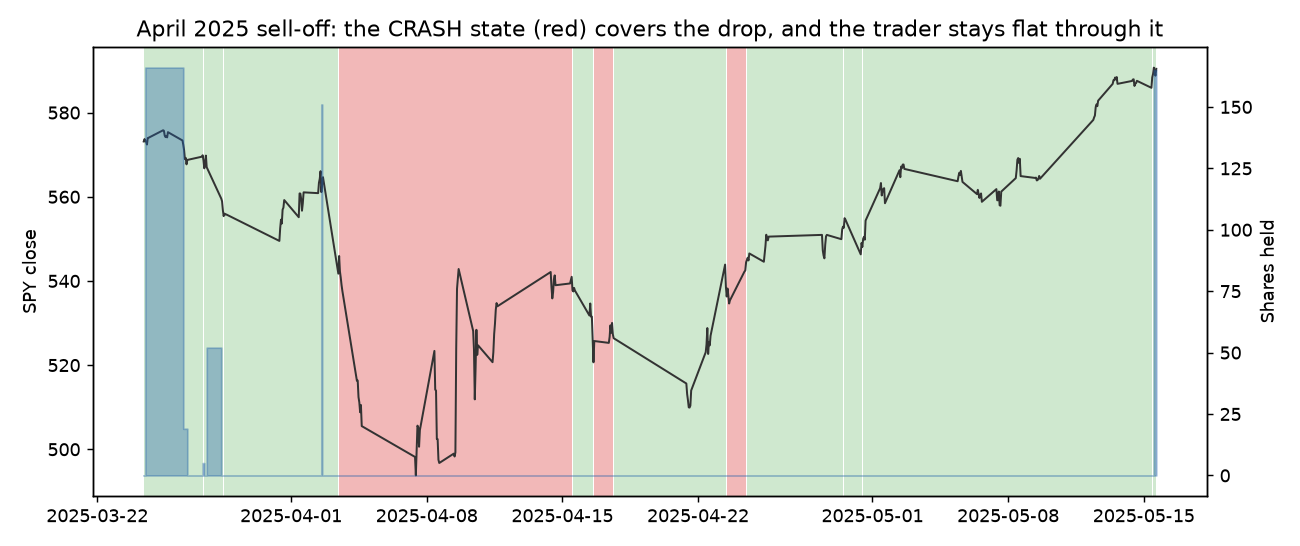
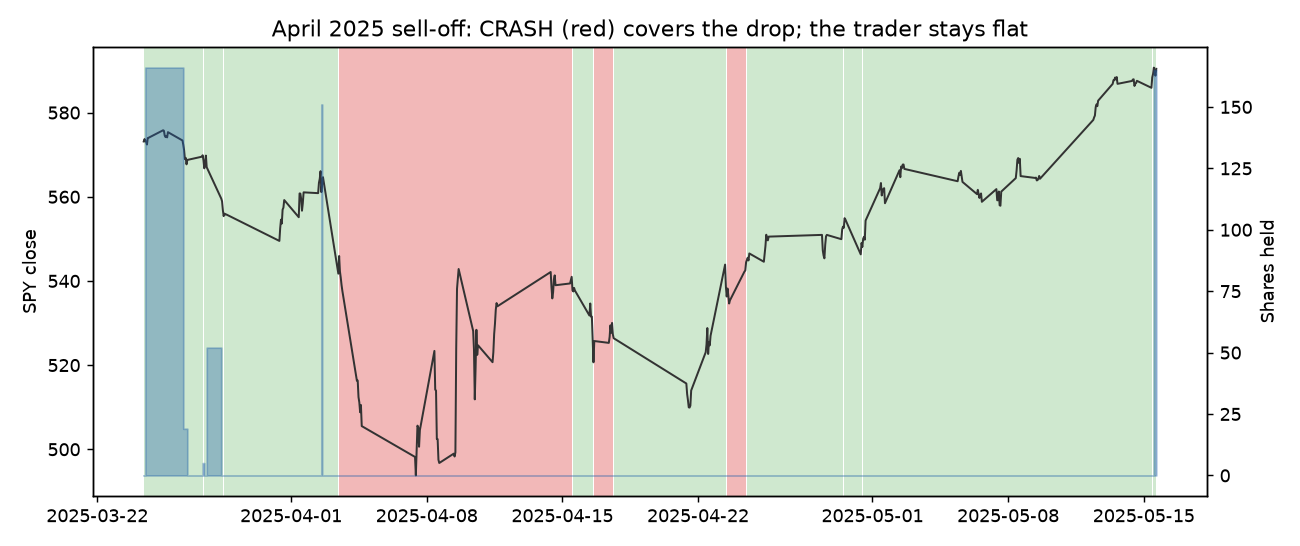
Demo script line length; changelog for the README rewrite

Changed region(s): [[0.0923, 0.0311, 0.8923, 0.0934]]

diff --git a/scripts/demo_walkforward.py b/scripts/demo_walkforward.py
@@ -81,7 +81,7 @@ def _figures(result: Acceptance, hold: pd.Series, bars: pd.DataFrame) -> None:
         run.positions[window].index, run.positions[window], step="post", color="#1f5fa8", alpha=0.35
     )
     shares_axis.set_ylabel("Shares held")
-    price_axis.set_title("April 2025 sell-off: the CRASH state (red) covers the drop, and the trader stays flat through it")
+    price_axis.set_title("April 2025 sell-off: CRASH (red) covers the drop; the trader stays flat")
     figure.tight_layout()
     figure.savefig(DOCS / "img" / "april_2025.png", dpi=130)
     plt.close(figure)

diff --git a/CHANGELOG.md b/CHANGELOG.md
@@ -431,3 +431,14 @@ tests first; the refactors were checked against the existing suite.
 - First GitHub push: mypy failed on CI because the newer numpy stubs there
   type `np.linalg.cholesky` as `floating[Any]`. The cached Cholesky factors
   and log normalizers are now explicitly float64.
+
+### README in the portfolio style
+- The README was rewritten to follow options_pricing:
+  - the origin story, and what building it properly showed;
+  - an equity figure and an "At a glance" table;
+  - Results, How it works (mermaid), Decisions (each tied to the test that
+    pins it), and Future interests.
+- `scripts/demo_walkforward.py` now regenerates `docs/DEMO_RESULTS.md` and
+  `docs/img/` (the equity curve, and the April 2025 sell-off), so the
+  README's numbers cannot drift from the code. matplotlib was added to the
+  `demo` extra.
